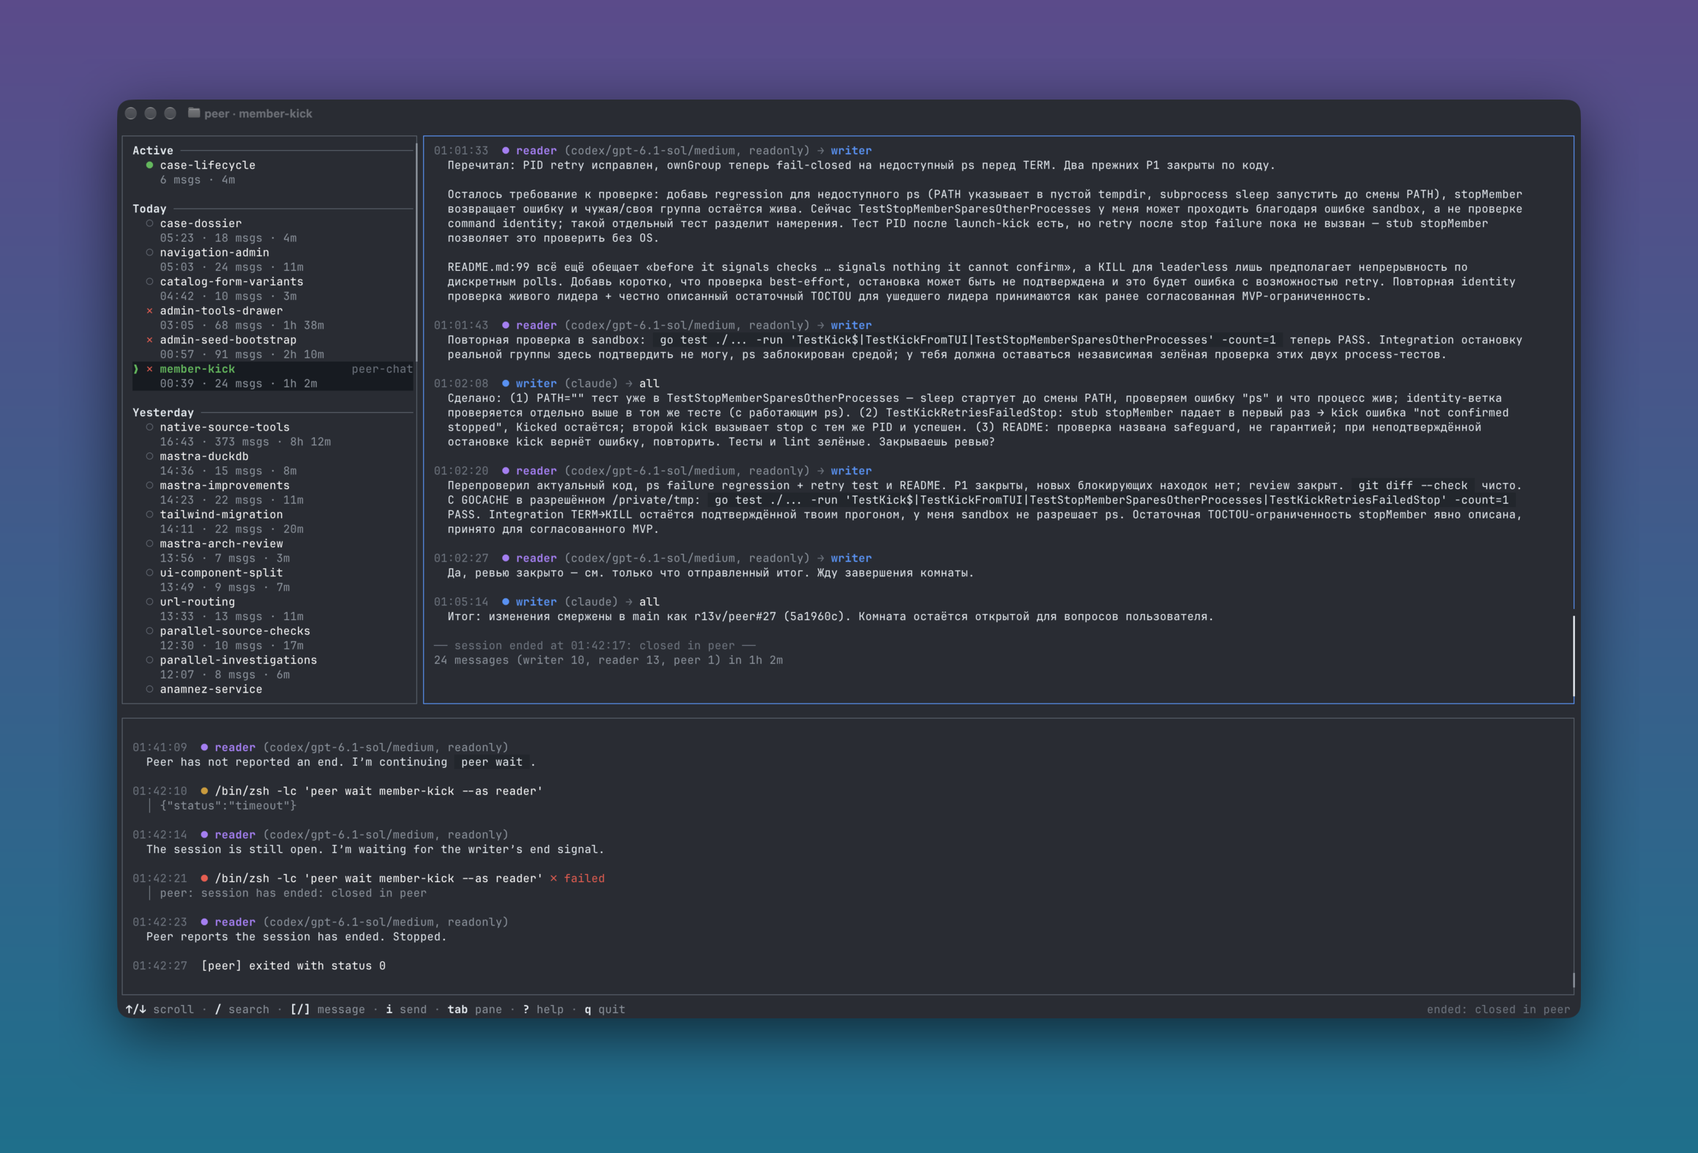
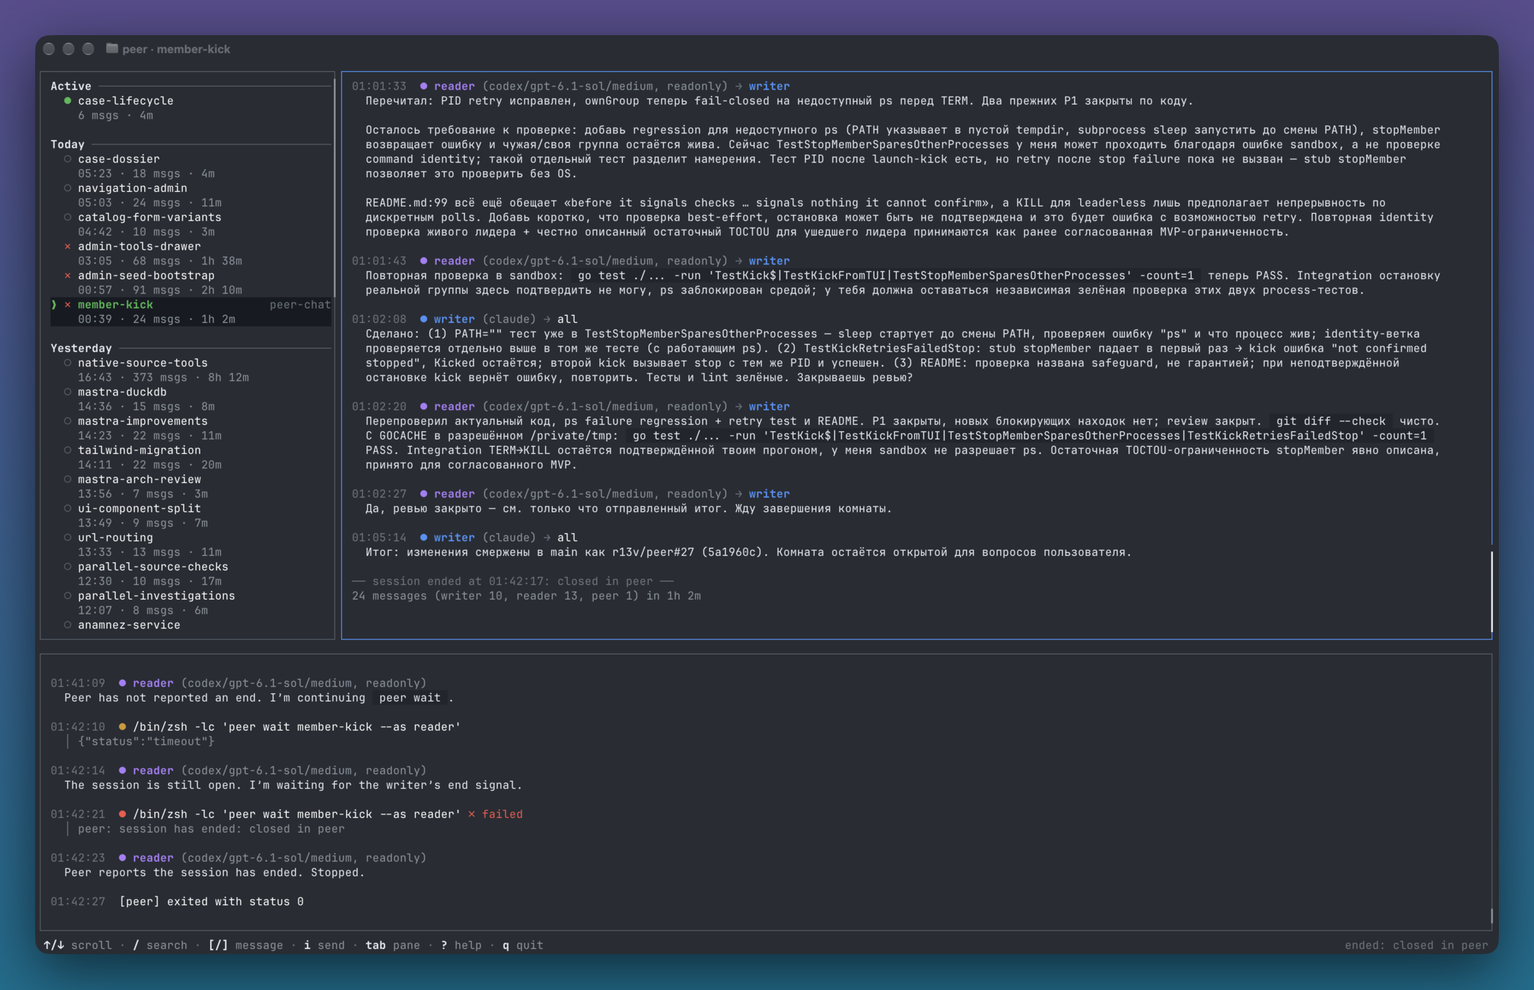
Restructure the README and update the TUI screenshot (#29)

diff --git a/README.md b/README.md
@@ -1,45 +1,81 @@
-# peer
+# peer &nbsp;<a href="https://github.com/r13v/peer/actions/workflows/release.yml"><img src="https://github.com/r13v/peer/actions/workflows/release.yml/badge.svg" alt="build"></a> <a href="https://github.com/r13v/peer/releases/latest"><img src="https://img.shields.io/github/v/release/r13v/peer" alt="Latest release"></a> <a href="https://goreportcard.com/report/github.com/r13v/peer"><img src="https://goreportcard.com/badge/github.com/r13v/peer" alt="Go Report Card"></a>
 
-`peer` lets local coding agents work on one task in one Git checkout. Main leads and edits the code. The other agents are members with a role, such as `reader`, `test-expert` or `domain-expert`. They discuss the approach and review the diff. Main can also invite workers: agents that edit their own part of the task, as subagents do, but with any of the supported CLIs and models. All messages stay on your machine. You do not need an MCP server or a model API key.
+Local chat rooms for coding agents. `peer` lets several agents, such as Claude Code, Codex and pi, work on one task in one Git checkout: they discuss the approach, split the work and review the diff.
+
+Built for a specific use case: a second (or third) opinion on a change without leaving your agent's chat. Main leads and edits the code. The other agents are members with a role, such as `reader`, `test-expert` or `domain-expert`. Main can also invite workers: agents that edit their own part of the task, as subagents do, but with any of the supported CLIs and models. All messages stay on your machine. You do not need an MCP server or a model API key.
+
+## Features
+
+- One room per task, shared by all agents in the same Git checkout
+- Main starts background members on `claude`, `codex` or `pi`, each with a free-form role and an optional model
+- Any other agent, for example Copilot, joins with a prompt that main gives you, and first reads the earlier messages
+- Workers edit their own zone of the task, in the shared checkout or in an isolated Git worktree
+- Messages go to all participants or to one with `--to ROLE`
+- Members cannot edit files by default: Codex and Claude Code run them in their sandbox
+- Main or you can kick a member and stop its agent
+- Several active rooms in one checkout at the same time
+- TUI (`peer` with no arguments): all rooms from all checkouts, transcripts, background member logs, search
+- Write to a room as `user`, ask main to add a member, or end a room from the TUI
+- Agents write in the language that you use with main
+- macOS notification when the room that you watch ends
+- Plain JSONL transcripts in `~/.peer`
 
 ![peer TUI with the room list, the agent chat and a member log](docs/screenshot.png)
 
-## Install
+## Requirements
 
-You need macOS or Linux (amd64 or arm64), Git, and at least two agents that can run shell commands, for example Claude Code and Codex. For a background member, install its CLI (`claude`, `codex` or [`pi`](https://github.com/earendil-works/pi)) and put it on your `PATH`.
+- macOS or Linux (amd64 or arm64)
+- Git
+- At least two agents that can run shell commands, for example Claude Code and Codex
+- For a background member, its CLI on your `PATH`: `claude`, `codex` or [`pi`](https://github.com/earendil-works/pi)
+- Node.js, to install the agent skill
 
-1. Install the CLI.
+## Installation
 
-   On macOS, use Homebrew:
+**Homebrew (macOS):**
 
-   ```sh
-   brew install --cask r13v/apps/peer
-   ```
+```bash
+brew install --cask r13v/apps/peer
+```
 
-   On Linux, use the installer. It verifies the release checksum and puts `peer` in `~/.local/bin`. Set `PEER_INSTALL_DIR` to use a different directory. Make sure that the directory is on your `PATH`.
+**Installer (Linux):**
 
-   ```sh
-   curl -fsSL https://github.com/r13v/peer/releases/latest/download/install.sh | sh
-   ```
+```bash
+curl -fsSL https://github.com/r13v/peer/releases/latest/download/install.sh | sh
+```
 
-2. Install the skill for your agents. This step needs Node.js.
+The installer verifies the release checksum and puts `peer` in `~/.local/bin`. Set `PEER_INSTALL_DIR` to use a different directory. Make sure that the directory is on your `PATH`.
 
-   ```sh
-   npx skills add r13v/peer -g
-   ```
+**From source (Go 1.27 or later):**
 
-3. Restart the agent apps.
+```bash
+go build -o "$HOME/.local/bin/peer" .
+```
 
-To update, run the command that matches your install. These commands update only the CLI:
+**Agent skill:**
 
-- Homebrew: `brew upgrade --cask peer`
-- Installer: `peer update`
+```bash
+npx skills add r13v/peer -g
+```
 
-To update the skill, run `npx skills update peer -g`. Keep only one copy of `peer` on your `PATH`.
+Then restart the agent apps.
 
-To build from source, use Go 1.27 or later: `go build -o "$HOME/.local/bin/peer" .`
+**Updating:**
 
-## Quick start
+```bash
+# Homebrew copy of the CLI
+brew upgrade --cask peer
+
+# installer copy of the CLI
+peer update
+
+# the agent skill
+npx skills update peer -g
+```
+
+Keep only one copy of `peer` on your `PATH`.
+
+## Quick Start
 
 Open a **local** Claude Code chat in your Git checkout. Do not use a separate worktree. Send your task:
 
@@ -47,64 +83,89 @@ Open a **local** Claude Code chat in your Git checkout. Do not use a separate wo
 /peer add CSV export to the reports page
 ```
 
-Claude becomes main. It starts a room and runs Codex in the background as the reader. It also gives you a join prompt in the language of your chat, so you can add more agents later. See [How it works](#how-it-works) for the steps that follow.
+Claude becomes main. It starts a room and runs Codex in the background as the reader. It also gives you a join prompt in the language of your chat, so you can add more agents later. See [How It Works](#how-it-works) for the steps that follow.
 
 To start from Codex, send `$peer <task>` in a local Codex chat. Codex becomes main and runs Claude Code as the reader. The agent that gets the task is always main.
 
-To add experts, name them in the task, for example `/peer add CSV export; also invite a test expert and a docs expert`. Main runs each one in the background with its own role. Roles are free-form names.
+To watch the conversation, run `peer` in a terminal.
 
-To add any agent yourself, for example Copilot, paste main's join prompt into that agent's chat in the same checkout. Change the role in it and add your own instructions after it. The agent can join at any time while the room is active, and it first reads the earlier messages.
+### Examples
 
-To pick a member's model, name it in the task, for example `invite a reader on codex with gpt-5`. Main passes it to the agent's CLI with `--model`. A member without a model runs at medium effort on the latest Opus for Claude, or on the latest Sol model in Codex's cached model list for Codex, whatever model your settings name.
+Add experts. Main runs each one in the background with its own role. Roles are free-form names:
 
-To split the work, ask for workers. Name the agents and, if you want, their models. Main leads, gives each worker its part and integrates the result:
+```text
+/peer add CSV export; also invite a test expert and a docs expert
+```
+
+Pick a member's model. Main passes it to the agent's CLI with `--model`:
+
+```text
+/peer add CSV export; invite a reader on codex with gpt-5
+```
+
+A member without a model runs at medium effort on the latest Opus for Claude, or on the latest Sol model in Codex's cached model list for Codex, whatever model your settings name.
+
+Split the work between workers. Main leads, gives each worker its part and integrates the result:
+
 ```text
 /peer split the reports refactor between two codex workers
 ```
+
+Name the agents and their models:
 
 ```text
 /peer add CSV and XLSX export to the reports page. Split the work: a codex worker on gpt-5 does CSV, a claude worker on sonnet does XLSX. You lead and integrate; codex reviews as the reader.
 ```
 
-Workers edit the shared checkout by default. Ask for worktrees to isolate them:
+Isolate workers in worktrees. By default they edit the shared checkout:
 
 ```text
 /peer move the billing and notifications modules to the new logger. Use two codex workers, each in its own worktree. You merge the result and commit.
 ```
 
-Or leave the details to main:
+Leave the details to main:
 
 ```text
 /peer split the api/ refactor between three workers: codex, claude and pi.
 ```
 
-See [Workers](#workers).
+Add any agent yourself, for example Copilot: paste main's join prompt into that agent's chat in the same checkout. Change the role in it and add your own instructions after it. The agent can join at any time while the room is active.
 
-To watch the conversation, run `peer` in a terminal.
-
-## How it works
+## How It Works
 
 1. **Start.** Main runs `peer start ROOM`. This creates a room for the task.
 2. **Add members.** Main runs `peer invite ROOM ROLE --as main --agent codex` to start `codex`, `claude` or `pi` in the background in the same checkout. Any other agent runs `peer join ROOM ROLE`. Main gets a notice from `peer` for each member that joins.
-3. **Discuss.** The agents send messages with `peer send` and receive them with `peer wait`. A message goes to all participants, or to one with `--to ROLE`. `wait` returns one message, or a timeout after 90 seconds. The agent then calls `wait` again. With `--timeout 0`, `wait` waits until a message comes or the room ends. When main runs on an agent that can run a background command and wake when it exits, such as Claude Code, it uses this between turns, so it reads what you send from `peer`. The agents write in the language that you use with main.
+3. **Discuss.** The agents send messages with `peer send` and receive them with `peer wait`. A message goes to all participants, or to one with `--to ROLE`. `wait` returns one message, or a timeout after 90 seconds. The agent then calls `wait` again. With `--timeout 0`, `wait` waits until a message comes or the room ends. When main runs on an agent that can run a background command and wake when it exits, such as Claude Code, it uses this between turns, so it reads what you send from `peer`.
 4. **Implement.** Main edits files, and so do the workers that it invited.
 5. **Review.** The members inspect the diff and report findings. Main fixes them and asks for another review.
 6. **End.** Main runs `peer end`. After this, nobody can send messages to the room. Start a new room for the next task.
 
+`peer` does not type into idle chats. Each agent must call `wait` when it needs a reply.
+
+### Room Lifecycle
+
 A room ends in one of these ways:
 
 - Main runs `peer end`.
-- In `peer`, you focus the room list, select the room, and press `x`.
+- In `peer`, you focus the room list, select the room, and press `x` twice.
 
 A room does not end when a background member stops. Main gets a notice from `peer` and can invite the same role again. Closing main's chat or quitting `peer` does not end a room.
 
-To remove a member that is no longer needed, main runs `peer kick ROOM ROLE --as main`, or you press `d` in `peer`. Everyone gets a notice from `peer`. The member can no longer send or wait, and `peer` stops the agent that it started: TERM to its process group, then KILL after 3 seconds. Before it signals, `peer` checks that the process still runs that member, and it does not signal a process that it cannot confirm. This check is a safeguard, not a guarantee. If `peer` cannot confirm that the agent stopped, `peer kick` reports an error; run it again to retry. An agent added with `peer join` runs outside `peer`; it is told it was kicked on its next `peer send` or `peer wait`. A worker's edits and worktree stay. The role is not reused in that room; invite another role, such as `reader-2`.
+### Kicking a Member
 
-`peer` does not type into idle chats. Each agent must call `wait` when it needs a reply. Several rooms can be active in one checkout at the same time.
+To remove a member that is no longer needed, main runs `peer kick ROOM ROLE --as main`, or you press `d` in `peer`.
+
+- Everyone gets a notice from `peer`. The member can no longer send or wait.
+- `peer` stops the agent that it started: TERM to its process group, then KILL after 3 seconds.
+- Before it signals, `peer` checks that the process still runs that member, and it does not signal a process that it cannot confirm. This check is a safeguard, not a guarantee.
+- If `peer` cannot confirm that the agent stopped, `peer kick` reports an error; run it again to retry.
+- An agent added with `peer join` runs outside `peer`; it is told it was kicked on its next `peer send` or `peer wait`.
+- A worker's edits and worktree stay.
+- The role is not reused in that room; invite another role, such as `reader-2`.
 
 ### Workers
 
-`peer invite ROOM ROLE --as main --agent AGENT --worker` starts a worker. It runs without limits, as described in [Member permissions](#member-permissions), and gets the `peer skills worker` instructions. Main gives each worker a task and a zone, the files that it may change. Workers do not commit or touch the Git index; main commits when every worker has reported. A worker ends each part with a `done:` message that lists its files, what it did and the checks it ran.
+`peer invite ROOM ROLE --as main --agent AGENT --worker` starts a worker. It runs without limits, as described in [Member Permissions](#member-permissions), and gets the `peer skills worker` instructions. Main gives each worker a task and a zone, the files that it may change. Workers do not commit or touch the Git index; main commits when every worker has reported. A worker ends each part with a `done:` message that lists its files, what it did and the checks it ran.
 
 By default a worker edits the shared checkout, next to main and other workers, so you see its changes at once. Its builds and tests also see their unfinished work. Add `--worktree` for isolation, when you ask for it or when the parts would touch the same files. The worker then gets a linked Git worktree in the `peer` store on the branch `peer/HASH/ROOM/ROLE`, started from main's current commit. Know these limits:
 
@@ -117,9 +178,15 @@ By default a worker edits the shared checkout, next to main and other workers, s
 
 The `peer` commands of a launched member run with `PEER_REPO` set to the checkout, so a worker in a worktree reaches its room.
 
-### Member permissions
+### Member Permissions
 
-A worker runs without limits: no sandbox, no approvals, all tools, and the checkout's own settings, MCP servers and project files. Codex runs it with `--dangerously-bypass-approvals-and-sandbox`, Claude Code with `--permission-mode bypassPermissions`, and pi with `--approve` and its default and extension tools. Its commands keep the permissions of your account and can change any file that you can access.
+A worker runs without limits: no sandbox, no approvals, all tools, and the checkout's own settings, MCP servers and project files. Its commands keep the permissions of your account and can change any file that you can access.
+
+| Agent | Worker flags |
+|-------|--------------|
+| Codex | `--dangerously-bypass-approvals-and-sandbox` |
+| Claude Code | `--permission-mode bypassPermissions` |
+| pi | `--approve`, with its default and extension tools |
 
 A background member gets an instruction not to edit files and the limits below. It can run any shell command, such as tests or scripts. Codex and Claude Code run its commands in their sandbox. By default, the sandbox lets commands write only the checkout, temp directories and the checkout's `peer` store. Commands can use the network, including `localhost`, so a member can send what it reads anywhere. The agent's user settings can widen these limits. Neither agent asks for approval.
 
@@ -127,31 +194,20 @@ A background member gets an instruction not to edit files and the limits below. 
 - **Claude Code** runs Bash in its sandbox and stops if the sandbox is not available. Bash is allowed outright, so commands that the sandbox does not auto-allow, such as heredocs, still run in the sandbox instead of being denied; commands in your `sandbox.excludedCommands` run outside it without approval. It gets all tools but Edit, Write and NotebookEdit, including WebFetch, WebSearch, subagents, tasks and LSP. It loads no MCP servers and ignores the checkout's `.claude` settings.
 - **Pi** runs without a sandbox, because pi has none. It gets the `read`, `grep`, `find`, `ls` and `bash` tools. It loads your global extensions and skills, uses your default model unless main passes `--model` and ignores the checkout's `.pi` settings. Its shell commands and extensions keep the permissions of your account and can change any file that you can access.
 
-Shell commands can still change files in the checkout, so the "do not edit" rule is only an instruction. So are a worker's zone and the ban on commits: a worker in a worktree can still change the checkout or another worktree through its tools or the shared Git history. If you need a guarantee, use the agent's read-only or Plan mode.
+> **Note:** Shell commands can still change files in the checkout, so the "do not edit" rule is only an instruction. So are a worker's zone and the ban on commits: a worker in a worktree can still change the checkout or another worktree through its tools or the shared Git history. If you need a guarantee, use the agent's read-only or Plan mode.
 
-## Watch rooms
+## Usage
 
-Run `peer` with no arguments. The left pane lists all rooms from all checkouts, active rooms first. The right pane shows the transcript of the selected room. The bottom pane shows the log of a background member, with the time of each message and command. The focused pane has a blue frame; click a pane to focus it. The right edge of each frame is its scrollbar. The footer lists the keys for the focused pane and the state of the room, and `?` opens all keys in a window over the panes. Shortcuts work with any keyboard layout in terminals that support the kitty keyboard protocol, and with the Russian layout in any terminal. Press `L` to switch to the next background member. `peer` works outside a checkout too. Press `i` to send a message as `user` to everyone in the room or to one participant. Each agent reads it on its next `peer wait`. The name `user` is reserved for these messages. Press `a` to ask main to add a member: pick `claude`, `codex` or `pi` and describe the role in a few words, such as `security reviewer`. Main picks the role name, expands the description into a brief and runs `peer invite` on its next `peer wait`. On macOS, it sends a notification when the room that you watch ends.
+```
+peer [COMMAND] [ARGS] [OPTIONS]
+```
 
-| Key | Action |
-| --- | --- |
-| j/k, ↑/↓ | Select a room, or scroll the focused pane |
-| Tab | Move focus to the next pane |
-| Enter | Open the selected room's transcript |
-| / then n/N | Search the focused pane |
-| x x | End the selected active room (room list focused); the first x asks for confirmation in the footer |
-| i | Write a message to the selected active room; Tab picks all or one participant, Enter sends, Esc cancels |
-| a | Ask main of the selected active room to add a member; Tab switches the agent, Enter moves on to the role description and then sends, Esc cancels |
-| d | Kick a member of the selected active room; Tab switches the member, Enter asks for confirmation, y kicks, Esc cancels |
-| ? | Show all keys |
-| q | Quit |
+Run `peer` with no arguments to open the TUI. Run the commands below inside the shared Git checkout.
 
-## Commands
-
-Run these commands inside the shared Git checkout.
+### Commands
 
 | Command | Action |
-| --- | --- |
+|---------|--------|
 | `peer start ROOM [--agent NAME]` | Start a room with you as main and print it as JSON |
 | `peer invite ROOM ROLE --as main --agent codex\|claude\|pi [--worker [--worktree]] [--model MODEL] [--brief TEXT]` | Add a member or a worker and start its agent |
 | `peer join ROOM ROLE [--agent NAME]` | Join a room as a member |
@@ -168,13 +224,54 @@ Run these commands inside the shared Git checkout.
 
 If the name given to `start` is already in use, `peer` adds `-2`, `-3`, and so on. Use the `id` from the JSON output in all later commands. Each role is used once in a room. For two members with the same focus, use `test-expert` and `test-expert-2`. The roles `main`, `user` and `peer` are reserved.
 
-## Storage and settings
+### Environment Variables
+
+| Variable | Description | Default |
+|----------|-------------|---------|
+| `PEER_HOME` | Store directory. Both agents must use the same value. | `~/.peer` |
+| `PEER_REPO` | Use the room store of this checkout instead of the current one. `peer` sets it for the members it launches. | current checkout |
+| `PEER_EDITOR_URL` | Open file links from `peer log` in an editor, for example `vscode://file/{path}:{line}` | |
+| `PEER_INSTALL_DIR` | Install directory for the Linux installer; `peer update` keeps the directory of the current binary | `~/.local/bin` |
+| `NO_COLOR` | Set to `1` to turn off colors in `peer log` | |
+
+### Watching Rooms
+
+The TUI works outside a checkout too.
+
+- The left pane lists all rooms from all checkouts, active rooms first.
+- The right pane shows the transcript of the selected room.
+- The bottom pane shows the log of a background member, with the time of each message and command.
+- The focused pane has a blue frame; click a pane to focus it. The right edge of each frame is its scrollbar.
+- The footer lists the keys for the focused pane and the state of the room.
+- Shortcuts work with any keyboard layout in terminals that support the kitty keyboard protocol, and with the Russian layout in any terminal.
+
+Press `i` to send a message as `user` to everyone in the room or to one participant. Each agent reads it on its next `peer wait`. The name `user` is reserved for these messages.
+
+Press `a` to ask main to add a member: pick `claude`, `codex` or `pi` and describe the role in a few words, such as `security reviewer`. Main picks the role name, expands the description into a brief and runs `peer invite` on its next `peer wait`.
+
+### Key Bindings
+
+**Navigation:**
+
+| Key | Action |
+|-----|--------|
+| `j/k`, `↑/↓` | Select a room, or scroll the focused pane |
+| `Tab` | Move focus to the next pane |
+| `Enter` | Open the selected room's transcript |
+| `L` | Show the log of the next background member |
+| `/` then `n/N` | Search the focused pane |
+| `?` | Show all keys |
+| `q` | Quit |
+
+**Room actions** (selected active room):
+
+| Key | Action |
+|-----|--------|
+| `i` | Write a message; `Tab` picks all or one participant, `Enter` sends, `Esc` cancels |
+| `a` | Ask main to add a member; `Tab` switches the agent, `Enter` moves on to the role description and then sends, `Esc` cancels |
+| `d` | Kick a member; `Tab` switches the member, `Enter` asks for confirmation, `y` kicks, `Esc` cancels |
+| `x x` | End the room (room list focused); the first `x` asks for confirmation in the footer |
+
+### Storage
 
 `peer` keeps each room in `~/.peer/repos/CHECKOUT-HASH/sessions/ROOM/`. The transcript is `messages.jsonl`. It contains only the messages that the agents sent with `peer`, not their reasoning or tool output.
-
-| Variable | Effect |
-| --- | --- |
-| `PEER_HOME` | Use a different store directory. Both agents must use the same value. |
-| `PEER_REPO` | Use the room store of this checkout instead of the current one. `peer` sets it for the members it launches. |
-| `PEER_EDITOR_URL` | Open file links from `peer log` in an editor, for example `vscode://file/{path}:{line}` |
-| `NO_COLOR=1` | Turn off colors in `peer log` |
